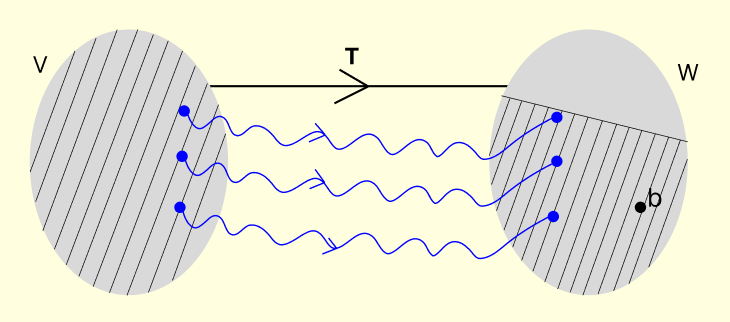
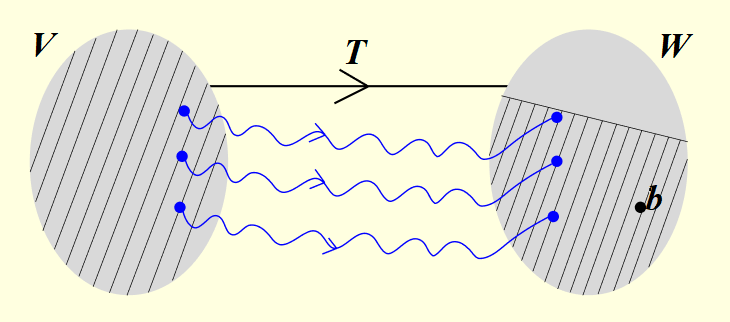
italicized

diff --git a/experiment/simulation/index.html b/experiment/simulation/index.html
@@ -219,7 +219,7 @@ input{
         </ul> -->
 
         <p class="heading0"> Notation: </p>
-    <p> <ul style="font-size: 19px;"><li>Linear map equation: <i>T</i>(<i>x</i>)=<i>b</i></li>
+    <p> <ul style="font-size: 19px;"><li>Linear map equation: <b><i>T</i>(<i>x</i>)=<i>b</i></b></li>
         <ul><li><i>V, W</i> are finite dimensional vector spaces </li>
         <li> <i>T:V</i>&rarr;<i>W</i> is a linear transformation</li>
         <li> <i>b</i> &isin; <i>W</i></li>
